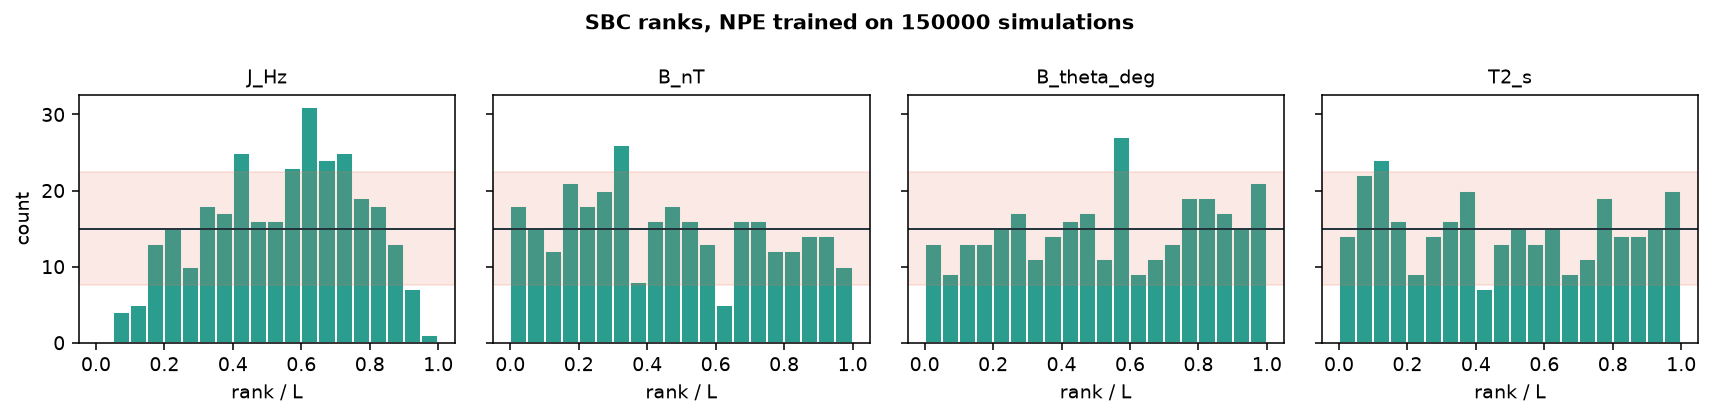
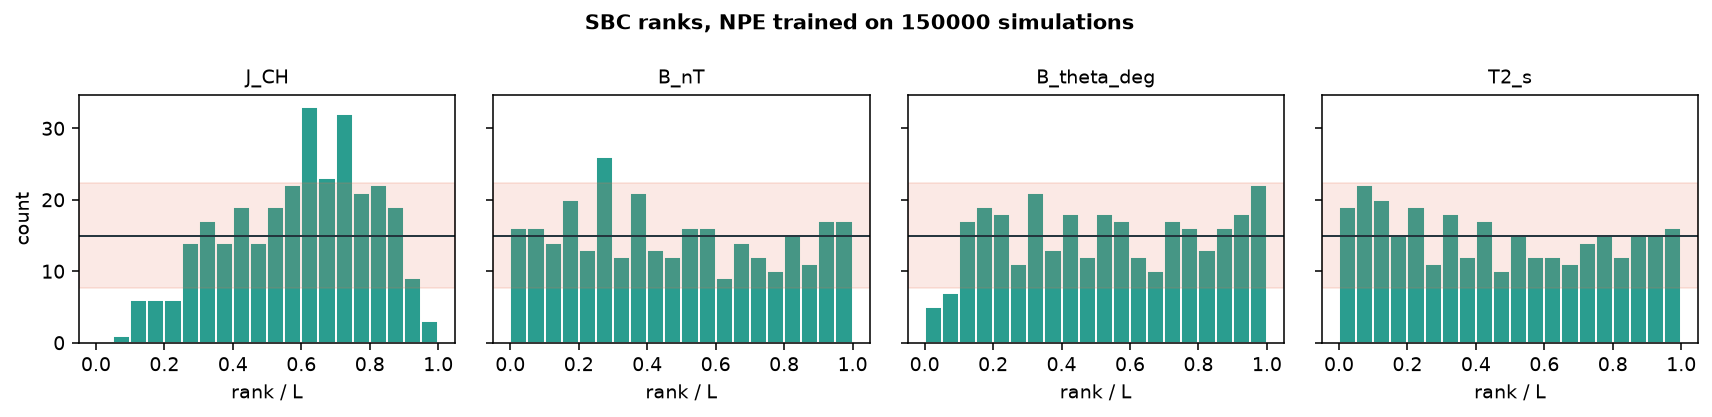
Cliffs do not explain the efficiency spread; test what does
Negative result, recorded as one: Spearman rho between distance-to-cliff and
importance-sampling efficiency is -0.06 (p = 0.64) over 60 observations, with
efficiency ranging 1.16% to 45.4% (39x). The hypothesis in the module
docstring -- that a peak list's discontinuities drive the spread -- is wrong.

The remaining physical cliffs are few: none in J or T2 (T2 only because the
merge width is now an instrument constant), one in |B| at 0.556 nT where the
multiplet becomes resolvable, and two narrow bands in theta at the ends of
its range.

Since the project's failure criterion is stated on efficiency, adds a section
that regresses it against every parameter, against distance to the prior
boundary, and against the reweighted width, so the driver is identified
rather than left open. Truths are now saved with the results.

Claude-Session: https://claude.ai/code/session_013FEeCKFRj576ZweqBitzx4

diff --git a/resolution_cliffs.py b/resolution_cliffs.py
@@ -145,7 +145,7 @@ def study(seed=0, n_obs=60, n_sims=150_000, n_post=4000):  # pragma: no cover
 
     rng = np.random.default_rng(seed)
     saved, prob.rng = prob.rng, rng
-    effs, dists, widths = [], [], []
+    effs, dists, widths, truths = [], [], [], []
     for k in range(n_obs):
         t = prob.sample_prior(1)[0]
         x_obs = prob.simulate_one(t)
@@ -157,10 +157,12 @@ def study(seed=0, n_obs=60, n_sims=150_000, n_post=4000):  # pragma: no cover
         effs.append(eff)
         widths.append((hi - lo) * 1e3)
         dists.append(distance_to_cliff(prob, t, n=300))
+        truths.append(t)
         if (k + 1) % 20 == 0:
             print(f"    {k + 1}/{n_obs}", flush=True)
     prob.rng = saved
     effs, dists, widths = np.array(effs), np.array(dists), np.array(widths)
+    truths = np.array(truths)
 
     finite = np.isfinite(dists)
     print(f"\n  observations with a cliff anywhere in their box : "
@@ -181,6 +183,39 @@ def study(seed=0, n_obs=60, n_sims=150_000, n_post=4000):  # pragma: no cover
         verdict = ("cliffs explain the spread" if (rho > 0.3 and p < 0.05)
                    else "no clear link -- the spread has another cause")
         print(f"  -> {verdict}")
+
+    # ---- 3. then what does? ----------------------------------------------
+    from scipy import stats
+    print("\n" + "-" * 84)
+    print("3. WHAT DOES PREDICT EFFICIENCY?")
+    print("-" * 84)
+    print("  The failure criterion is stated on efficiency, so if cliffs are")
+    print("  not the driver it is worth knowing what is.\n")
+    print(f"{'quantity':>28} {'Spearman rho':>13} {'p':>10}")
+    cands = [(n, truths[:, i]) for i, n in enumerate(prob.param_names)]
+    # how close the truth sits to the edge of the prior box, in prior units
+    u = (truths - prob.low) / prob.prior_span()
+    cands.append(("distance to prior edge", np.min(np.minimum(u, 1 - u), axis=1)))
+    cands.append(("distance to cliff", dists))
+    cands.append(("reweighted width on J", widths))
+    best = []
+    for name, v in cands:
+        ok = np.isfinite(v)
+        if ok.sum() < 5 or np.ptp(v[ok]) == 0:
+            continue
+        rho, p = stats.spearmanr(v[ok], effs[ok])
+        flag = " <--" if p < 0.01 else ""
+        print(f"{name:>28} {rho:>13.3f} {p:>10.3g}{flag}")
+        if p < 0.01:
+            best.append((name, rho))
+    if best:
+        print("\n  Significant at p < 0.01: "
+              + ", ".join(f"{n} ({r:+.2f})" for n, r in best))
+    else:
+        print("\n  Nothing here predicts it. The spread is a property of the")
+        print("  trained flow's local fit to the posterior, not of the physics,")
+        print("  which is an argument for quoting efficiency over several")
+        print("  spectra rather than trusting one reading.")
 
     # ---- figure -----------------------------------------------------------
     fig, axes = plt.subplots(1, 2, figsize=(11, 4))
@@ -210,7 +245,9 @@ def study(seed=0, n_obs=60, n_sims=150_000, n_post=4000):  # pragma: no cover
     fig.savefig("resolution_cliffs.png", dpi=140, facecolor="white",
                 bbox_inches="tight")
 
-    np.savez("resolution_cliffs.npz", effs=effs, dists=dists, widths=widths)
+    np.savez("resolution_cliffs.npz", effs=effs, dists=dists,
+             widths=widths, truths=truths,
+             param_names=np.array(prob.param_names))
     print("\nwrote resolution_cliffs.png and resolution_cliffs.npz")
 
 
